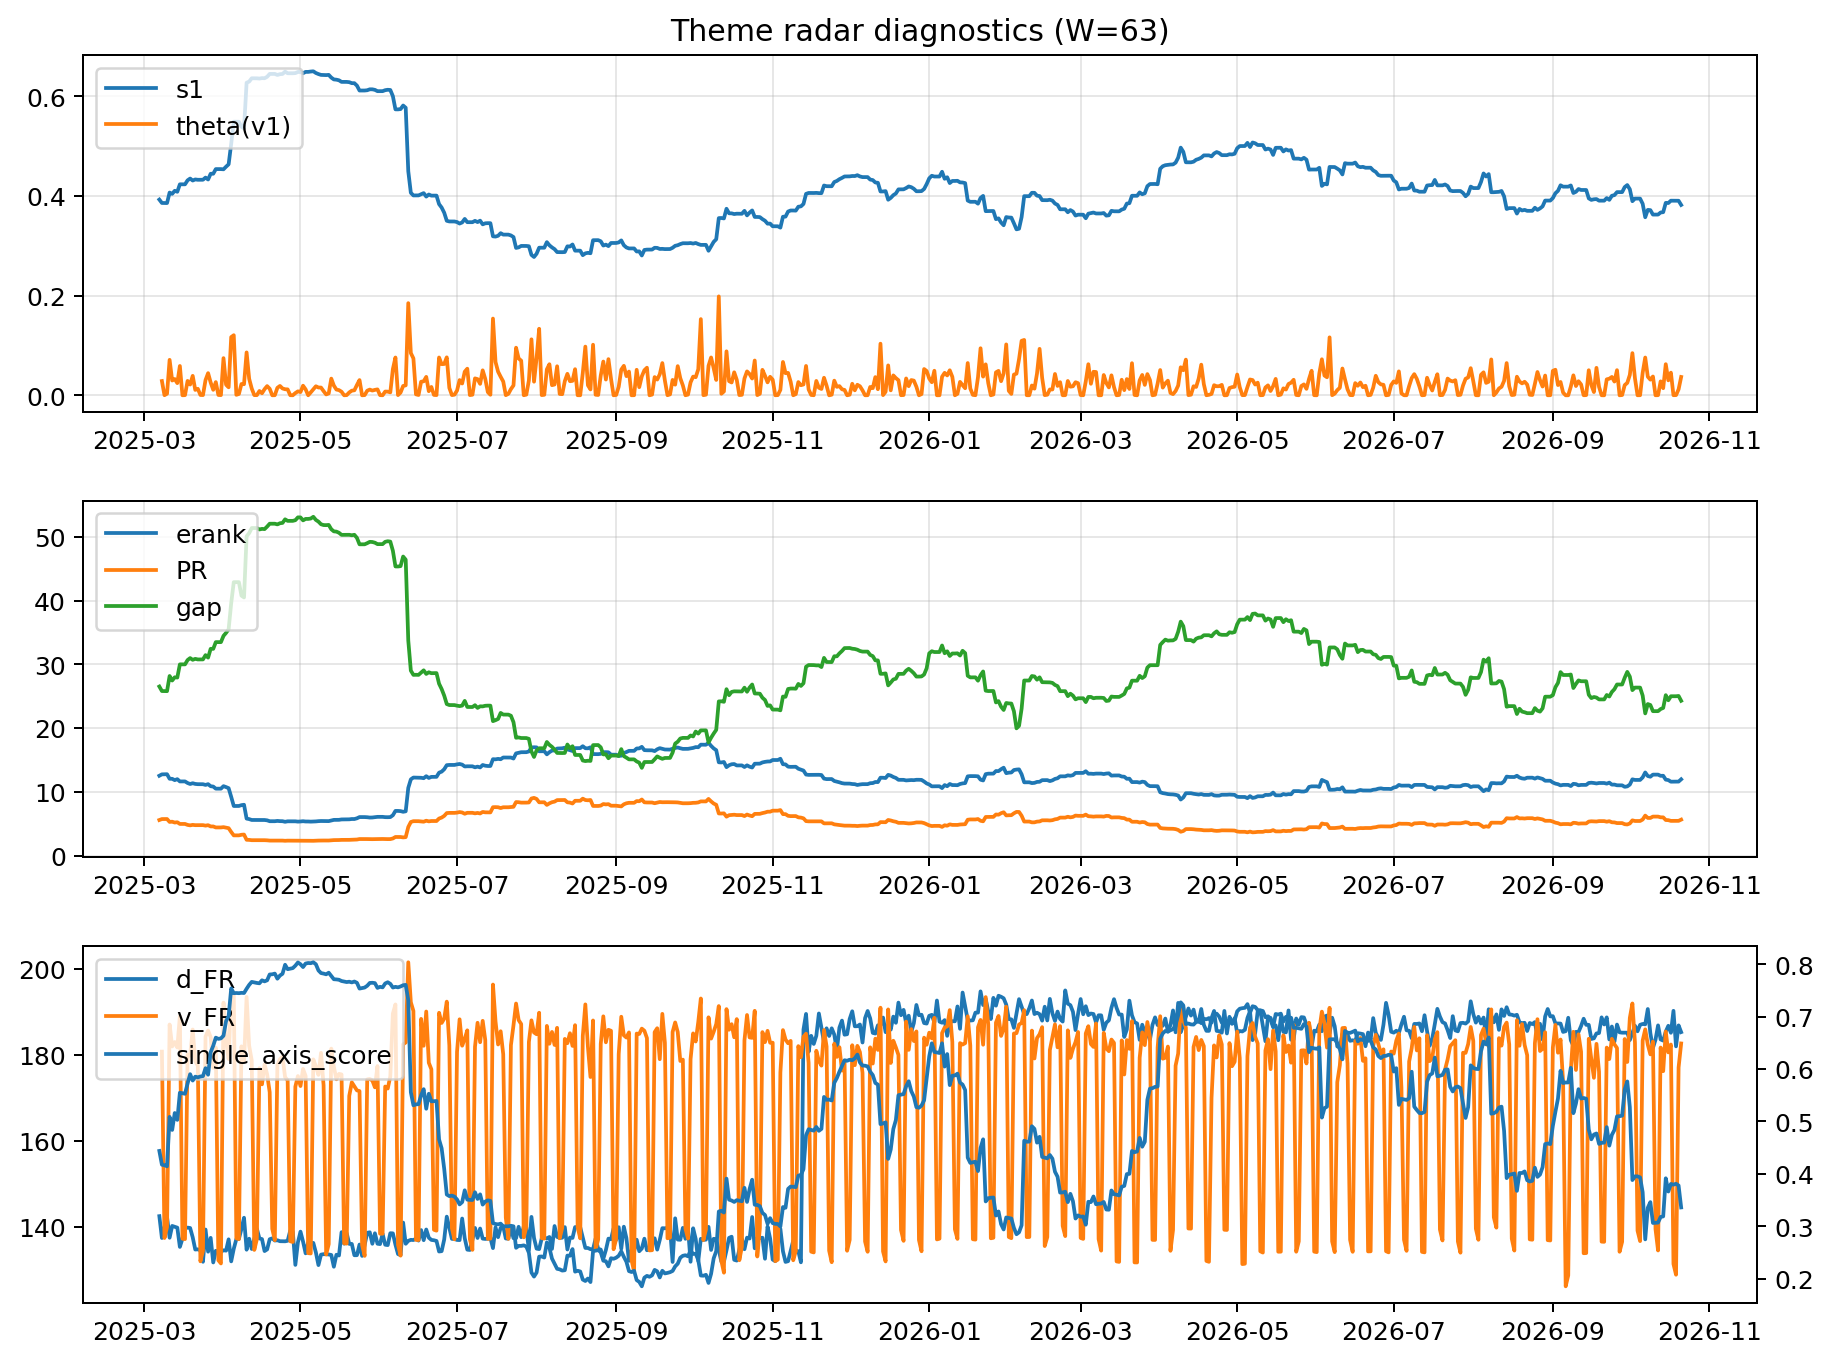
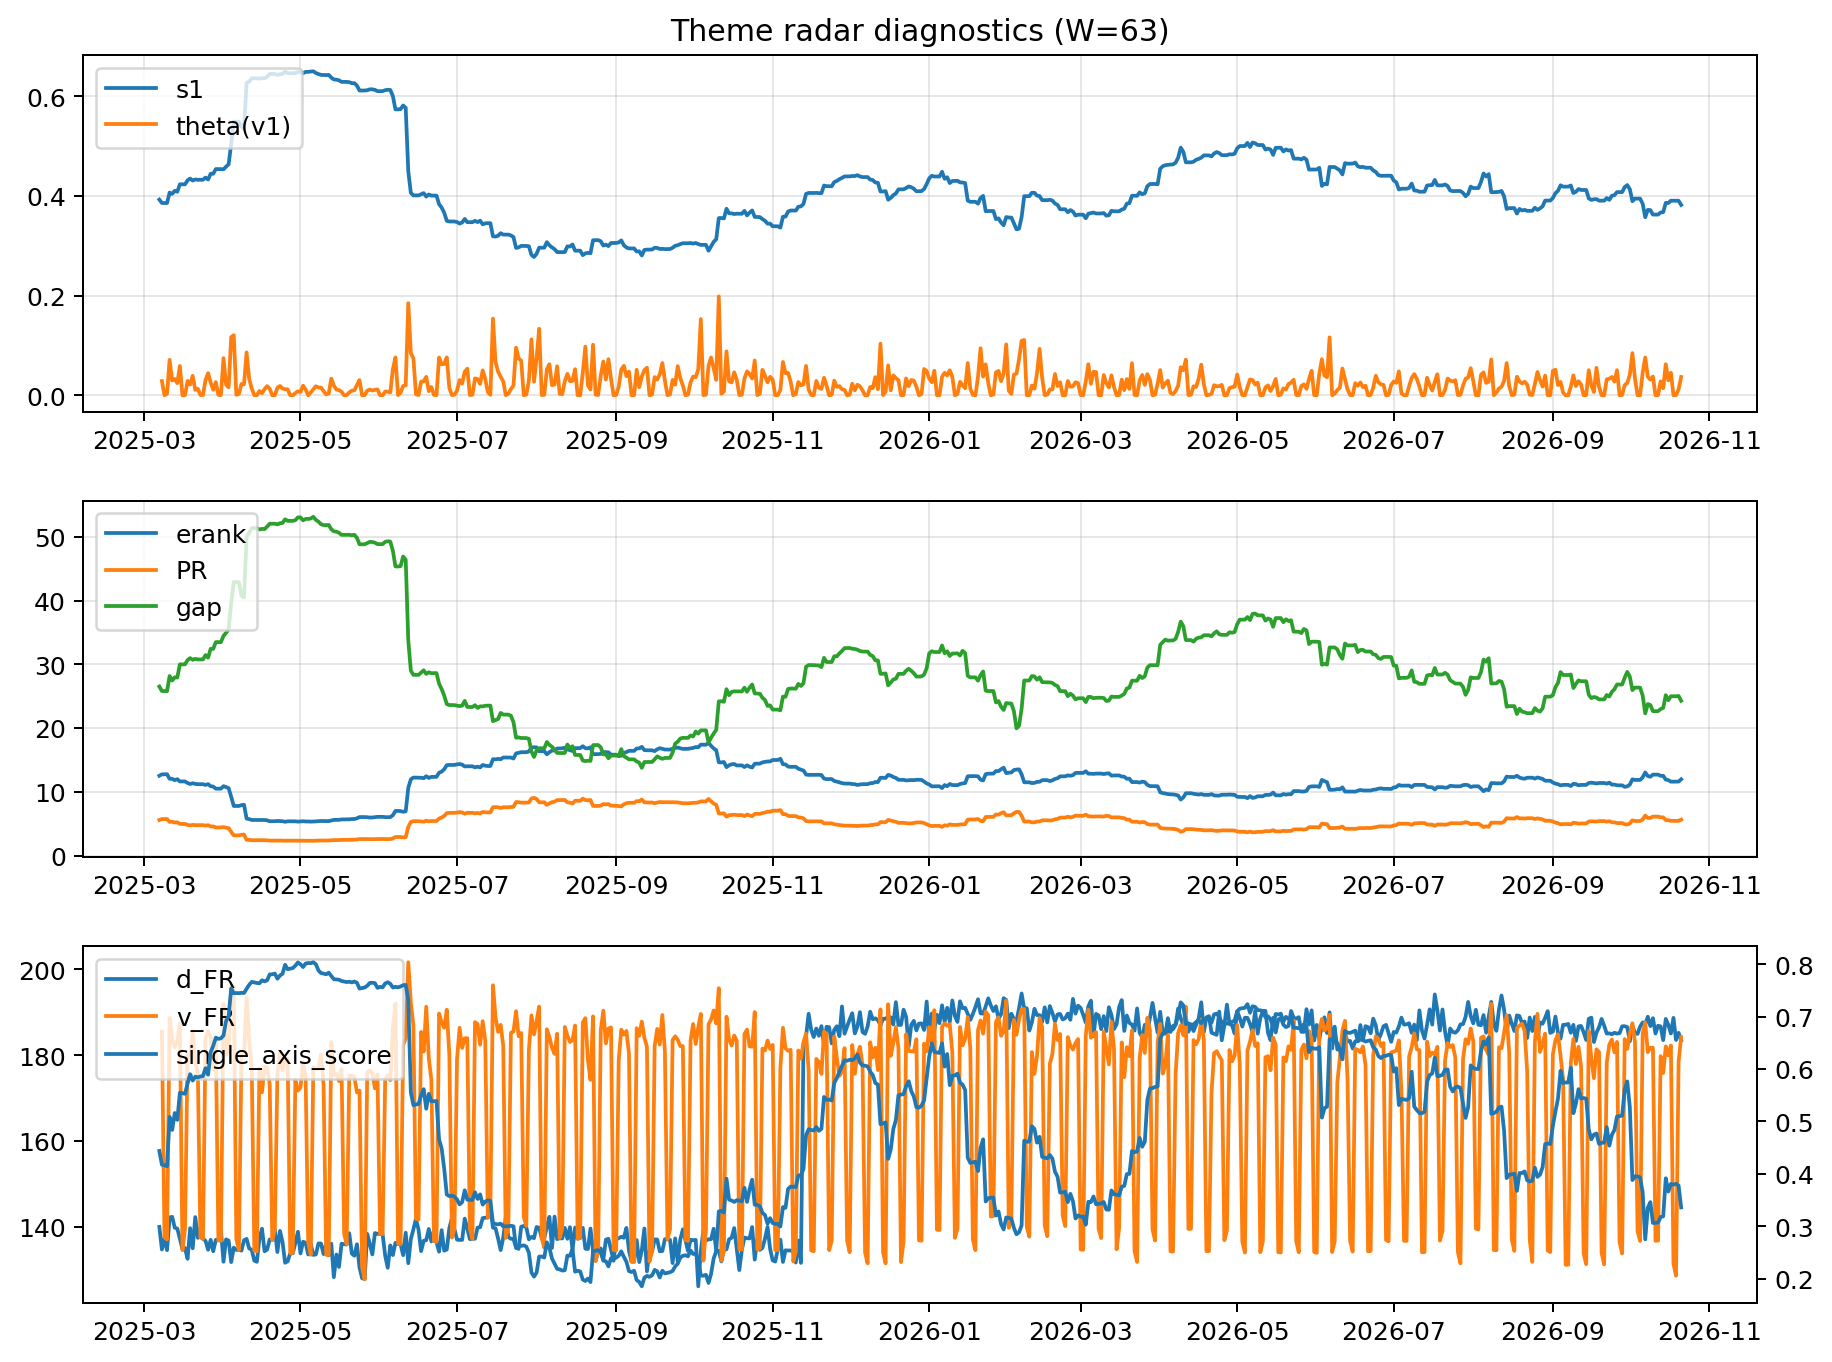
log: 2026-10-21 | sha256:30531845116c8e707552e1a3bfe9aa544d0d519a48e2a52beffb752aec51b555

diff --git a/logs/2026-10-21.md b/logs/2026-10-21.md
@@ -3,43 +3,43 @@
 ![diagnostic W63](../assets/diagnostic/2026-10-21_W63.png)
 
 ## Leaders (v1) — W=63
-- **Nuclear_Uranium** (0.0778591262123332)
-- Semis (0.0599621741773727)
-- Quantum (0.0560197491915501)
+- **Nuclear_Uranium** (0.0778591212010177)
+- Semis (0.0599621630892442)
+- Quantum (0.0560197449500812)
 
 ## Challengers — W=63
-**v2:** Semis (0.1042347395324501), Rates (0.0905334464789289), Genomics_Bio (0.0748094187139378)
-**v3:** Software_Cloud (0.0992213122533896), Cyber (0.0655134372638111), DataCenter_Infra (0.0613826848264801)
+**v2:** Semis (0.1042347368383292), Rates (0.0905336150682639), Genomics_Bio (0.0748093559076576)
+**v3:** Software_Cloud (0.0992213328131097), Cyber (0.0655134605282499), DataCenter_Infra (0.0613826886616776)
 
 ## Migration (20D slope) — W=63
 **Top risers:**
-- axis_MegaCap_AI: 0.0006974998246063
-- axis_Crypto: 0.0005468709166232
-- axis_Metals: 0.000338163639728
-- axis_Sector_ConsStap: 0.0002993455512543
-- axis_Cyber: 0.0002866528073816
-- axis_Software_Cloud: 0.0002299852733492
-- axis_Nuclear_Uranium: 0.0002002508799503
-- axis_Vol: 0.0001729584483891
-- axis_Critical_Minerals: 0.0001603099536059
-- axis_DataCenter_Infra: 0.0001282366860455
+- axis_MegaCap_AI: 0.0006974993306946
+- axis_Crypto: 0.0005468707637578
+- axis_Metals: 0.0003381638479125
+- axis_Sector_ConsStap: 0.0002993456834782
+- axis_Cyber: 0.000286652472931
+- axis_Software_Cloud: 0.0002299845817918
+- axis_Nuclear_Uranium: 0.0002002506926561
+- axis_Vol: 0.0001729582294419
+- axis_Critical_Minerals: 0.0001603100955278
+- axis_DataCenter_Infra: 0.00012823653447
 
 **Top fallers:**
-- axis_Equity_ExUS: -8.731722312848313e-05
-- axis_Equity_US: -9.410628457813384e-05
-- axis_Sector_Utilities: -0.0001063977622077
-- axis_Space: -0.0001172185579614
-- axis_Sector_Materials: -0.0001336799736053
-- axis_Defense: -0.0002479735717956
-- axis_Credit: -0.0003020434022717
-- axis_Commodities: -0.0003045976189807
-- axis_Genomics_Bio: -0.000368614784059
-- axis_Rates: -0.0010813590121039
+- axis_Equity_ExUS: -8.73173636786477e-05
+- axis_Equity_US: -9.410671091695364e-05
+- axis_Sector_Utilities: -0.0001063977728542
+- axis_Space: -0.000117218587566
+- axis_Sector_Materials: -0.0001336799547918
+- axis_Defense: -0.0002479736277812
+- axis_Credit: -0.0003020424129518
+- axis_Commodities: -0.00030459792779
+- axis_Genomics_Bio: -0.0003686147475685
+- axis_Rates: -0.0010813554909066
 
 ## Risk line (W=63)
-- s1: 0.3818321047082789
-- theta_v1: 0.0367838855057736
-- v_FR: 182.58301018789496
+- s1: 0.3818321234482294
+- theta_v1: 0.0367839388066149
+- v_FR: 184.22103903134564
 - single_axis_score: 0.336026936026936
 
 ## Interpretation
@@ -48,7 +48,7 @@
 - Action: Tomorrow watchlist: MegaCap_AI, Crypto, Metals, Sector_ConsStap, Cyber + v2_top1=Semis
 - Action: Hedge note: normal correlation stability.
 
-- Percentiles (W=63 history): vfr_pct=0.62, theta_pct=0.75, s1_pct=0.35, score_pct=0.21.
+- Percentiles (W=63 history): vfr_pct=0.74, theta_pct=0.75, s1_pct=0.35, score_pct=0.21.
 
 ---
[2 lines of base64/hex data omitted]
